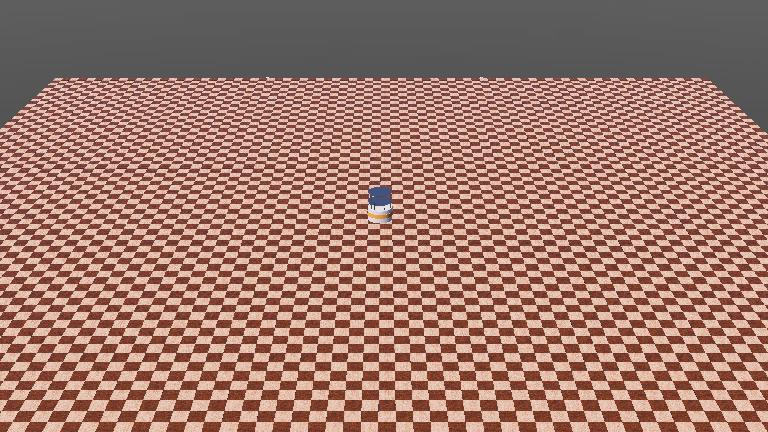
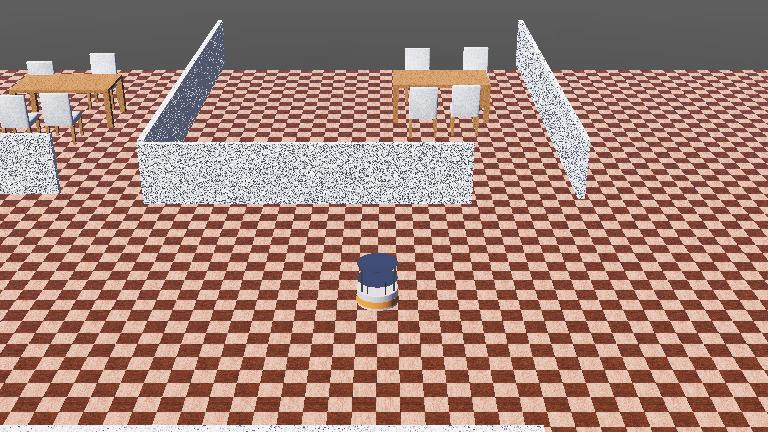
feat: initialize robot controller project with navigation graph, initial state, and restaurant environment world

diff --git a/Robot/controllers/robot_controller/robot_controller.c b/Robot/controllers/robot_controller/robot_controller.c
@@ -135,6 +135,9 @@ char current_target_name[64] = "";
 // Calibration flag — set by CALIBRATE command, consumed in main loop
 bool calibrate_requested = false;
 
+// Delivery confirmation flag — set true after arriving at delivery table
+bool waiting_for_confirmation = false;
+
 WbDeviceTag lidar;
 double lidar_ranges[LIDAR_MAX_SAMPLES];
 int lidar_actual_count = 0;
@@ -412,6 +415,7 @@ void read_robot_command(double *target_x, double *target_y, bool *target_receive
     
     if (fscanf(fp, "%31s %31s %31s", cmd, target, direction) == 3) {
         if (strcmp(cmd, "NAV_TO_TABLE") == 0) {
+            waiting_for_confirmation = false;
             if (resolve_graph_target(target, target_x, target_y, state)) {
                 *target_received = true;
                 *has_path = false;
@@ -445,6 +449,7 @@ void read_robot_command(double *target_x, double *target_y, bool *target_receive
                 *state = STATE_IDLE;
             }
         } else if (strcmp(cmd, "STOP") == 0) {
+            waiting_for_confirmation = false;
             *target_received = false;
             *has_path = false;
             *state = STATE_IDLE;
@@ -462,6 +467,16 @@ void read_robot_command(double *target_x, double *target_y, bool *target_receive
             *manual_v = 0.0;
             *manual_omega = 0.0;
             printf("Command: CALIBRATE — will reset position on next cycle\n");
+        } else if (strcmp(cmd, "CONFIRM") == 0) {
+            waiting_for_confirmation = false;
+            if (resolve_graph_target("Kitchen", target_x, target_y, state)) {
+                *target_received = true;
+                *has_path = false;
+                graph_route_len = 0;
+                graph_route_requested = true;
+                graph_path_active = false;
+                printf("Command: CONFIRM — returning to Kitchen (%.2f, %.2f)\n", *target_x, *target_y);
+            }
         }
     }
     fclose(fp);
@@ -1724,26 +1739,22 @@ int main(int argc, char **argv) {
             }
         }
 
-        // Keyboard input (chỉ giữ phím số để đi đến bàn, đã bỏ phím S)
+        // Keyboard input — only C for confirm
         int key = wb_keyboard_get_key();
-        if (key >= '1' && key <= '9') {
-            int idx = key - '1';
-            if (idx < num_waypoints && waypoints[idx].valid) {
-                target_x = waypoints[idx].x;
-                target_y = waypoints[idx].y;
+        if (key == 'C' || key == 'c') {
+            waiting_for_confirmation = false;
+            int k_idx = find_graph_node_index_by_name_or_id("Kitchen");
+            if (k_idx >= 0) {
+                target_x = graph_nodes[k_idx].x;
+                target_y = graph_nodes[k_idx].y;
                 target_received = true;
                 has_path = false;
                 robot_state = STATE_NAV_TO_TABLE;
-                strncpy(current_target_name, waypoints[idx].name, sizeof(current_target_name) - 1);
+                strncpy(current_target_name, graph_nodes[k_idx].name, sizeof(current_target_name) - 1);
                 current_target_name[sizeof(current_target_name) - 1] = '\0';
-                printf("Go to %s: (%.2f, %.2f)\n", waypoints[idx].name, target_x, target_y);
-            } else if (num_waypoints == 0 && (key == '1' || key == '2')) {
-                target_x = (key == '1') ? robot_x : -0.8;
-                target_y = (key == '1') ? robot_y : 1.5;
-                target_received = true;
-                has_path = false;
-                robot_state = STATE_NAV_TO_TABLE;
-                printf("Default target: (%.2f, %.2f)\n", target_x, target_y);
+                printf("Key C: Return to Kitchen (%.2f, %.2f)\n", target_x, target_y);
+            } else {
+                printf("Key C: Kitchen node not found in graph!\n");
             }
         }
 
@@ -1871,27 +1882,33 @@ int main(int argc, char **argv) {
             }
 
             if (dist_to_current < wp_accept || final_arrived) {
-                if (is_last_wp || final_arrived) {
-                    has_path = false;
-                    target_received = false;
-                    robot_state = STATE_IDLE;
-                    path_is_graph = false;
-                    path_len = 0;
-                    path_idx = 0;
-                    graph_route_len = 0;
-                    graph_route_requested = false;
-                    graph_path_active = false;
-                    printf("\n========== ARRIVED (d=%.3f, threshold=%.3f) ==========\n", dist_to_final, stop_dist);
-                    current_v = 0.0;
-                    current_omega = 0.0;
-                    if (left_motor && right_motor) {
-                        wb_motor_set_velocity(left_motor, 0.0);
-                        wb_motor_set_velocity(right_motor, 0.0);
-                    }
-                    clear_path_file();
-                    write_robot_state(robot_x, robot_y, robot_theta, 0.0, 0.0, get_state_string(robot_state));
-                    continue;
+            if (is_last_wp || final_arrived) {
+                has_path = false;
+                target_received = false;
+                robot_state = STATE_IDLE;
+                path_is_graph = false;
+                path_len = 0;
+                path_idx = 0;
+                graph_route_len = 0;
+                graph_route_requested = false;
+                graph_path_active = false;
+                printf("\n========== ARRIVED (d=%.3f, threshold=%.3f) ==========\n", dist_to_final, stop_dist);
+                current_v = 0.0;
+                current_omega = 0.0;
+                if (left_motor && right_motor) {
+                    wb_motor_set_velocity(left_motor, 0.0);
+                    wb_motor_set_velocity(right_motor, 0.0);
                 }
+                clear_path_file();
+                if (is_table_target()) {
+                    waiting_for_confirmation = true;
+                    write_robot_state(robot_x, robot_y, robot_theta, 0.0, 0.0, "WAITING_AT_TABLE");
+                    printf("WAITING: At delivery table. Send CONFIRM to return to Kitchen.\n");
+                } else {
+                    write_robot_state(robot_x, robot_y, robot_theta, 0.0, 0.0, get_state_string(robot_state));
+                }
+                continue;
+            }
 
                 // === Stop-and-turn at intermediate waypoint ===
                 // Rotate in place to face the next waypoint before advancing